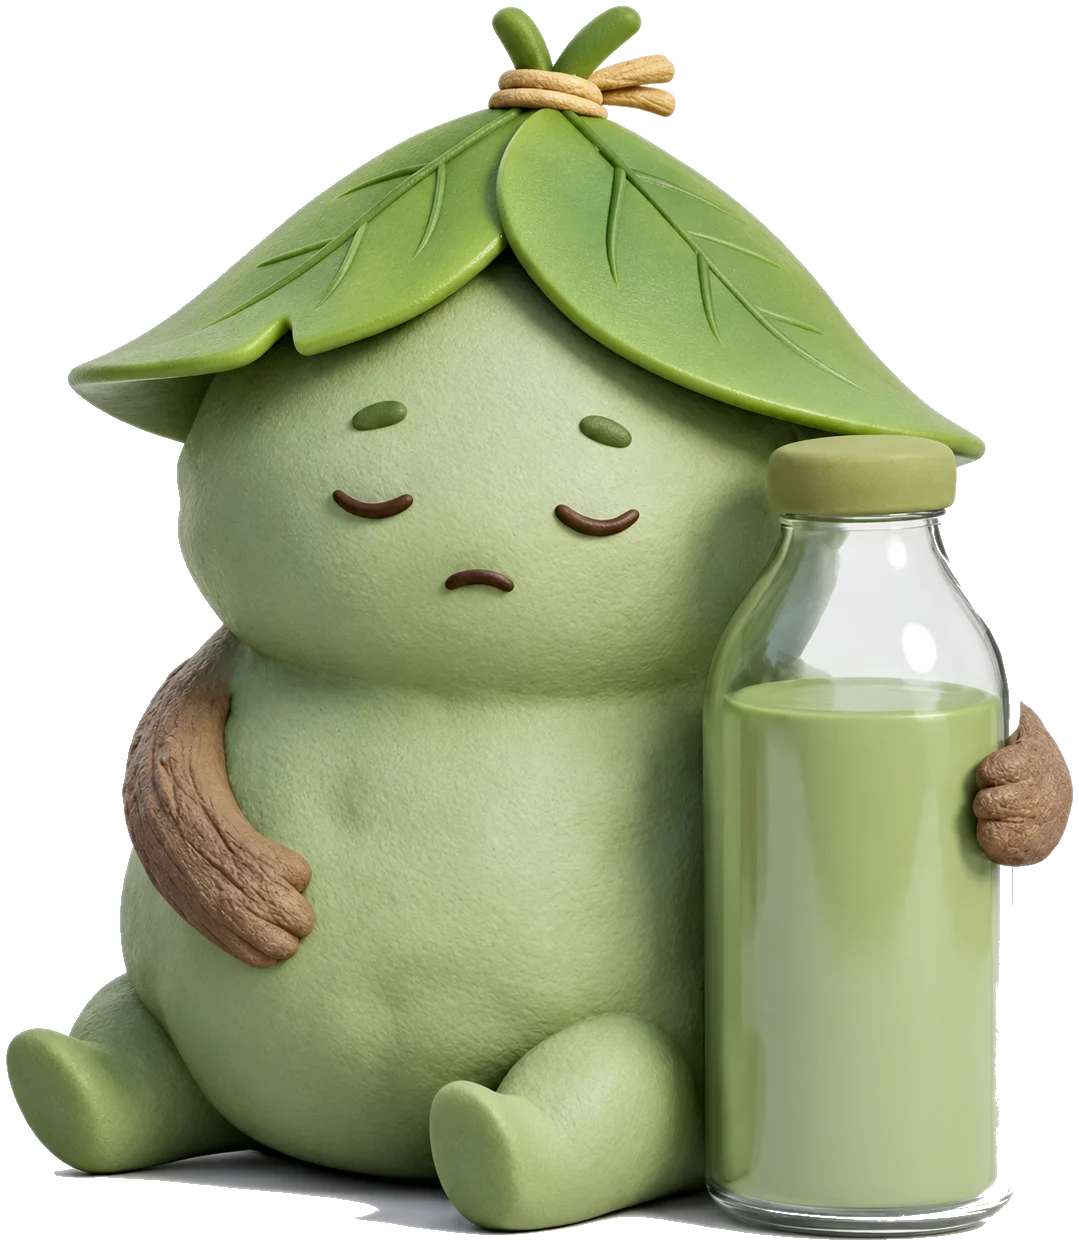
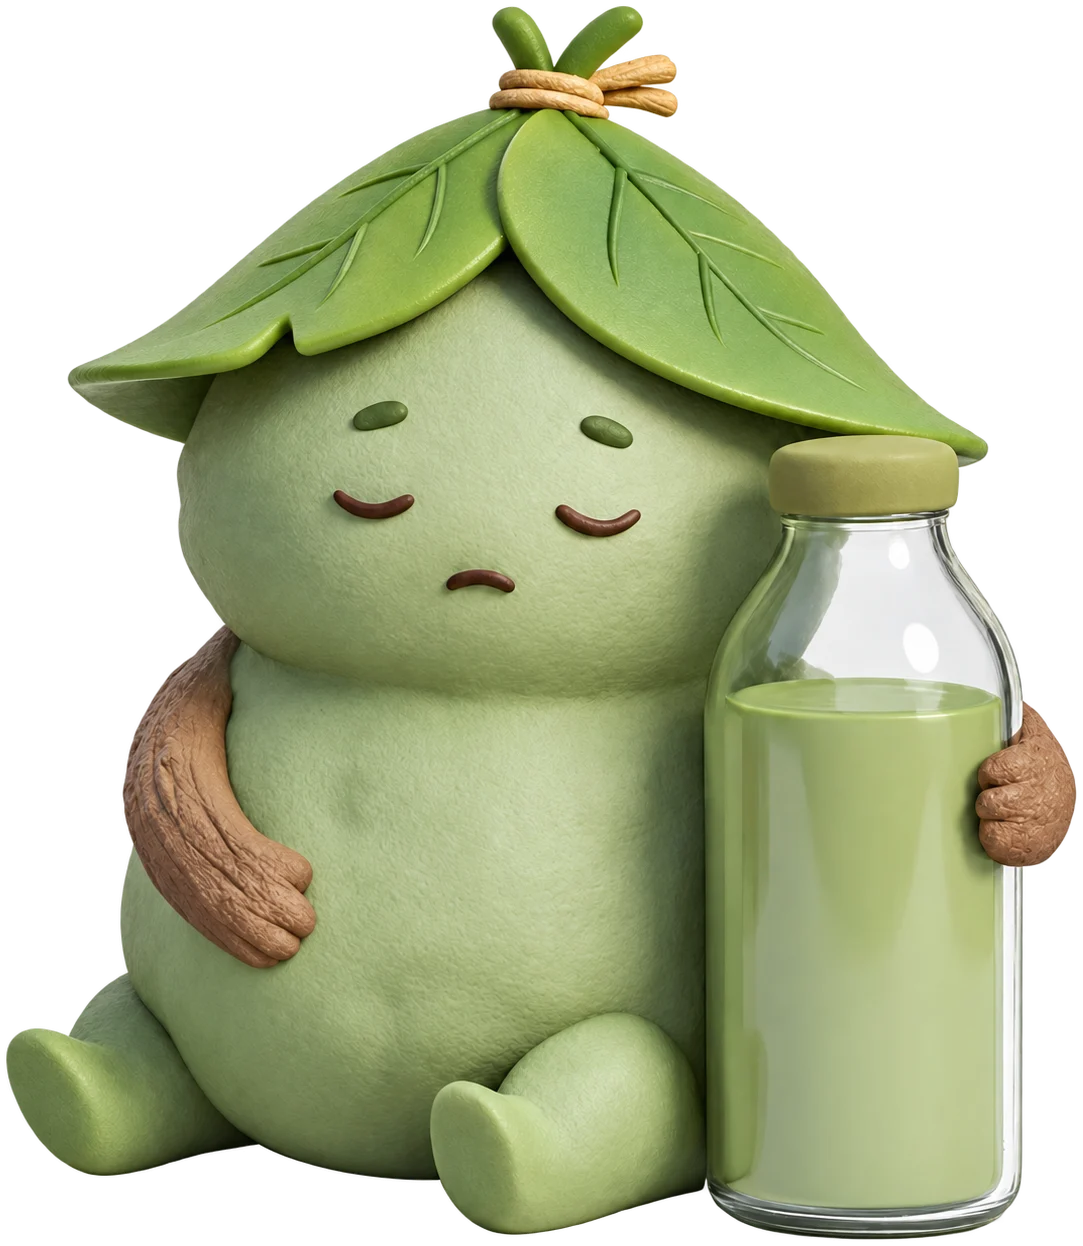
feat: use the owner's transparent mascot files
Swaps the locally cut-out mascots for the owner's own transparent PNGs:
cleaner feet (no leftover floor shadow) and smoother leaf edges. Trimmed
to the character and regenerated as WebP (480 px and full) plus a ~2x PNG
fallback; aspect ratios are unchanged, so nothing moves on the page.

diff --git a/resources/views/components/mascot.blade.php b/resources/views/components/mascot.blade.php
@@ -11,10 +11,10 @@
 @php
     // Full-size width of each WebP (public/images/landing/yoka-{name}.webp).
     $fullWidth = [
-        'hero' => 938,
-        'lean' => 1079,
-        'thumbs' => 1019,
-        'chasen' => 926,
+        'hero' => 940,
+        'lean' => 1083,
+        'thumbs' => 1024,
+        'chasen' => 929,
     ][$name];
     $base = asset("images/landing/yoka-{$name}");
 @endphp
